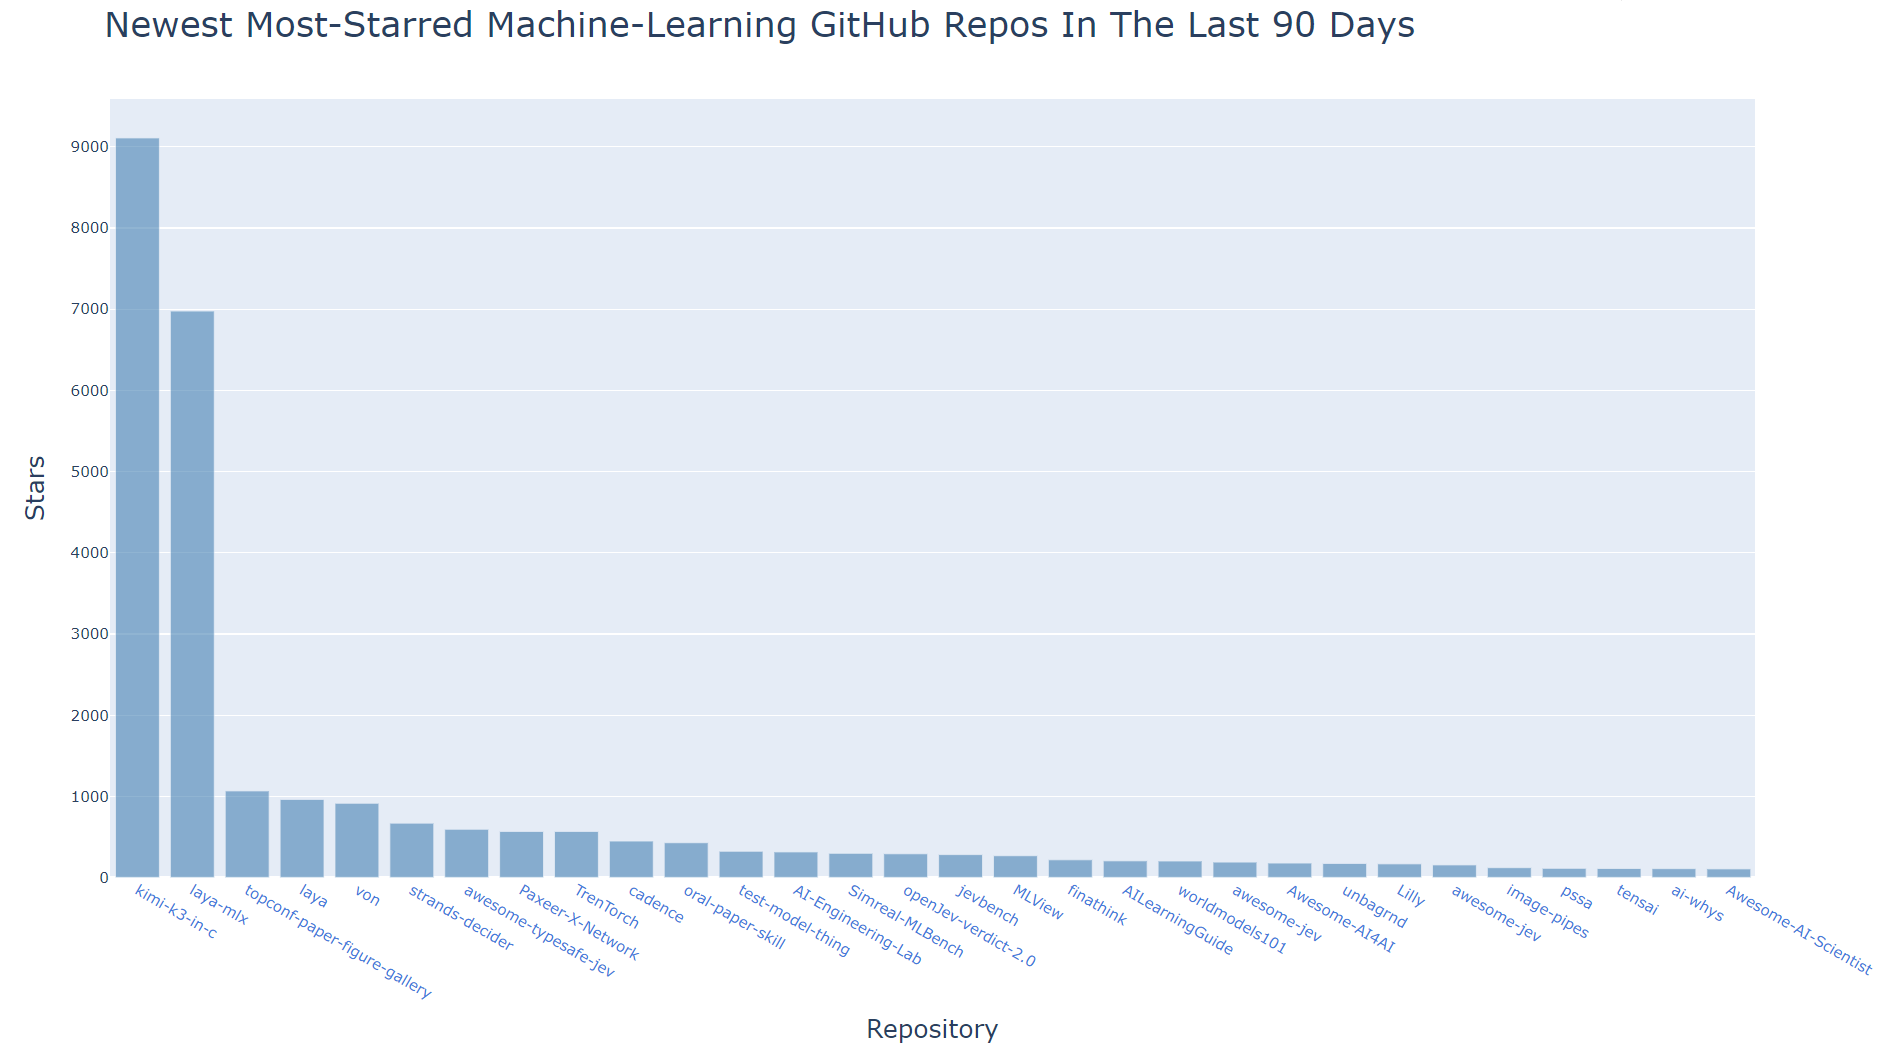
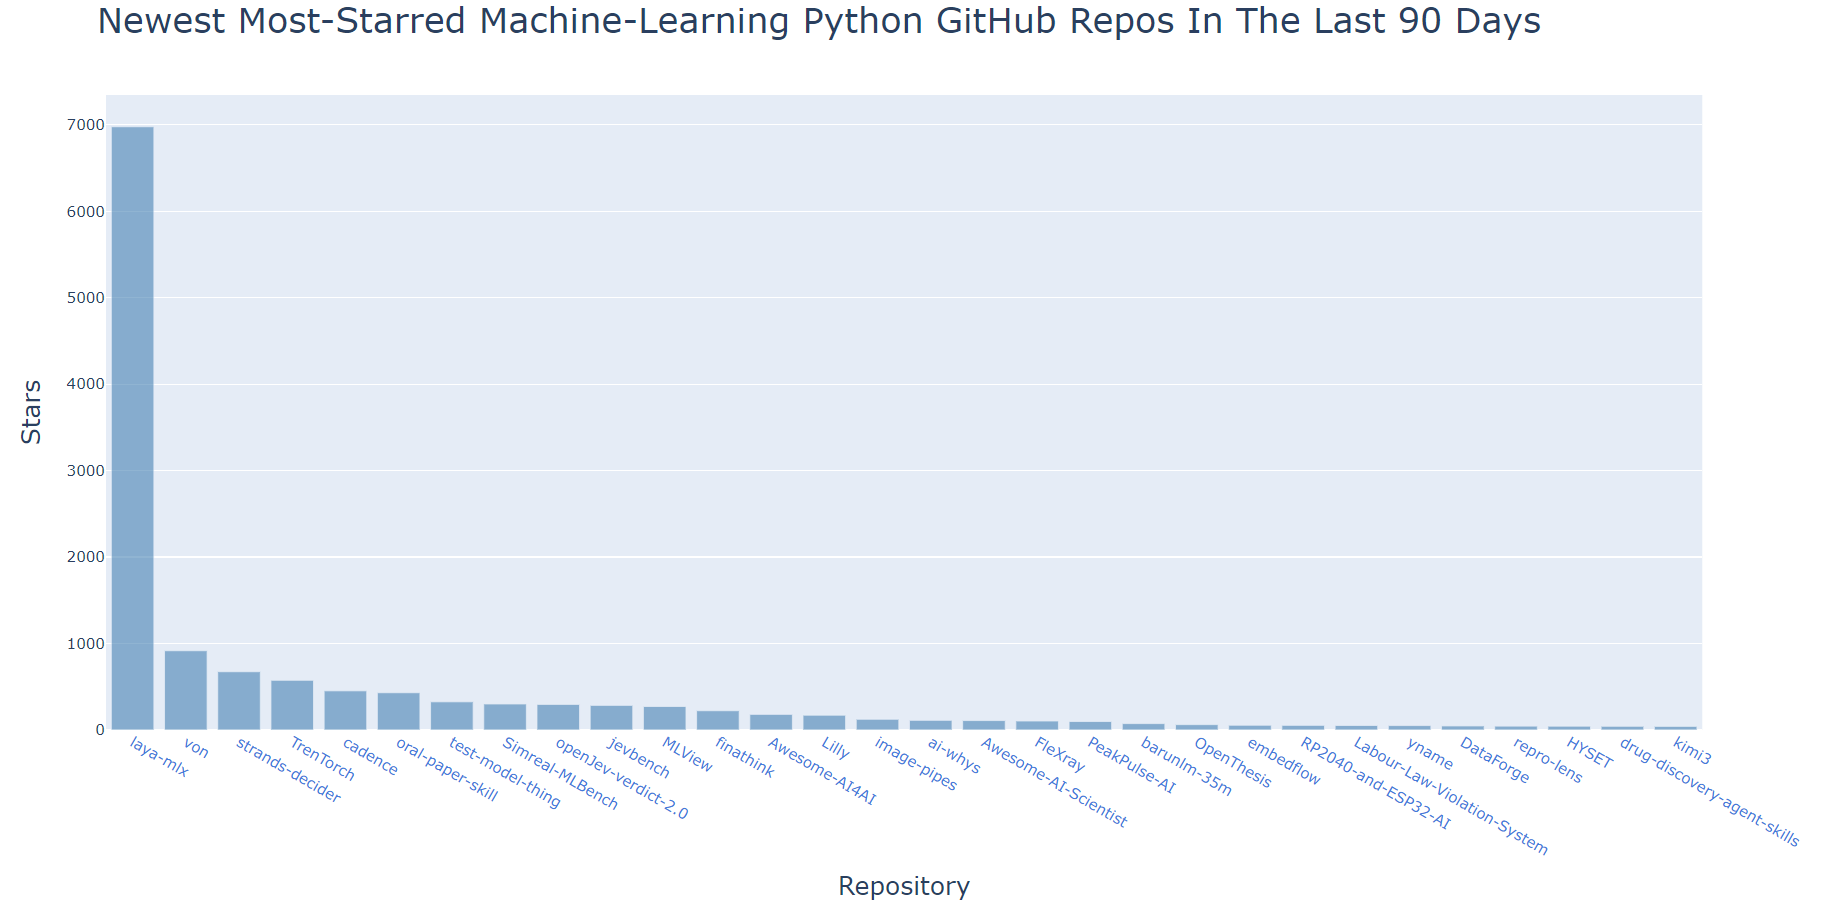
Update screenshot: machine learning in Python

diff --git a/README.md b/README.md
@@ -12,7 +12,7 @@ a programming language, or both, and draws an interactive bar chart of them. It 
 last 90 days and shows the ones with the most stars first. Stars can be
 inflated, so this is a list of popular new repos, not a measure of quality.
 
-![Bar chart of the 30 most-starred new machine-learning repos on GitHub](screenshot.png)
+![Bar chart of the 30 most-starred new machine-learning repos written in Python on GitHub](screenshot.png)
 
 ## What it does
 
